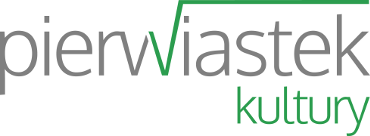
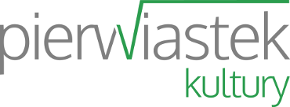
Bialystok - add organiser

diff --git a/bialystok.html b/bialystok.html
@@ -214,8 +214,6 @@
 
        <h3>Venue</h3>
         <p style="clear:both;"><a href="http://bpnt.bialystok.pl/en/" style="float:right; margin: 0 0 10px 10px; border:0;" target="_blank"><img src="images/bialystok/bpnt.png" alt="BPNT"></a><a href="http://bpnt.bialystok.pl/en/" target="_blank"><strong>The Białystok Science & Technology Park</strong></a> supports creative people to turn their idea into an technology advanced business by providing them board range of facilities and services.</p>
-       <h3>Friends</h3>
-        <p style="clear:both;"><a href="https://www.facebook.com/Pierwiastek.Kultury" style="float:right; margin: 0 0 10px 10px; border:0;" target="_blank"><img src="images/bialystok/pierwiastek_kultury.png" alt="Pierwiastek Kultury"></a></p>
        <h3>Sponsors</h3>
 
        <p>The Rails Girls Bialystok event is possible thanks to our amazing sponsors</p><p>
@@ -244,8 +242,11 @@
            <a target="_blank" href="http://www.codequest.com/">code quest</a> is a Ruby on Rails and iOS development studio. They specialize in helping entrepreneurs turn ideas into awesome products.
          </p>
       </p>
+     <h3>Friends</h3>
+     <p><a href="https://www.facebook.com/Pierwiastek.Kultury" style="float:left; margin: 0 0 10px 10px; border:0;" target="_blank"><img src="images/bialystok/pierwiastek_kultury.png" alt="Pierwiastek Kultury"></a></p>
+     <div class="clearfix"></div>
 
-     <h3 style="margin-top: ">Partners</h3>
+    <h3 style="margin-top: 25px">Partners</h3>
     <div class="grid_2 omega">
         <p><a href="http://www.bio-box.pl/"  target="_blank" style="border:0;"><img src="images/bialystok/JOHN_LEMON.png" title="John Lemon" width="150px"/></a></p>
     </div>
@@ -271,7 +272,9 @@
       <div class="coaches">
         <hr />
         <h2>Bialystok team</h2>
-
+        <a href="https://twitter.com/railsgirls_bia" class="grid_3" target="_blank">
+          Pierwiastek Kultury </br> organizer
+        </a>
         <a href="https://twitter.com/railsgirls_bia" class="grid_3" target="_blank">
           Dominika Mips </br> organizer, coach
         </a>
